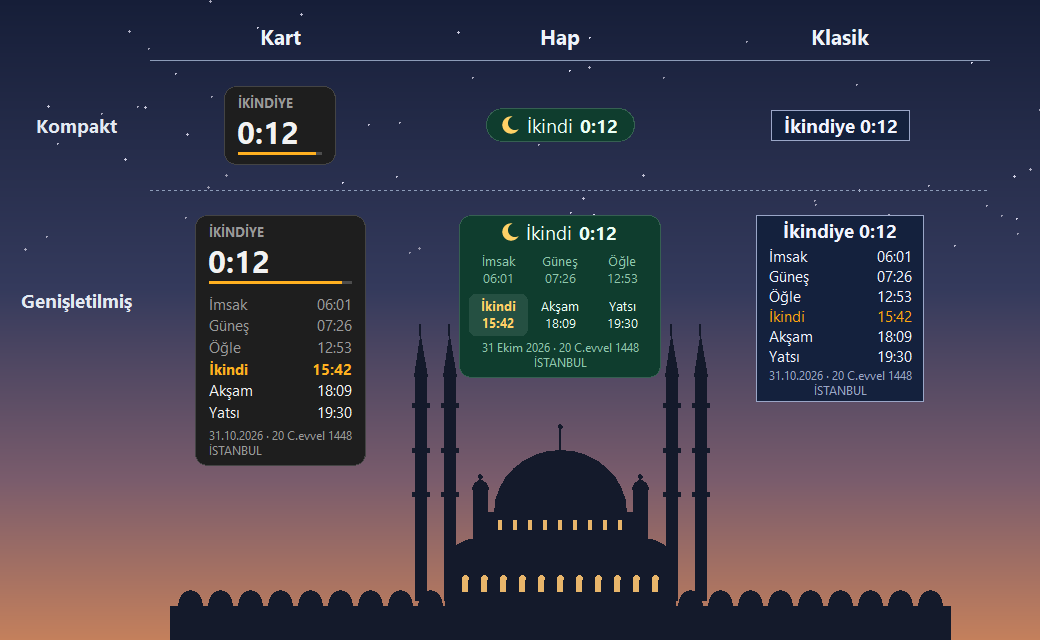
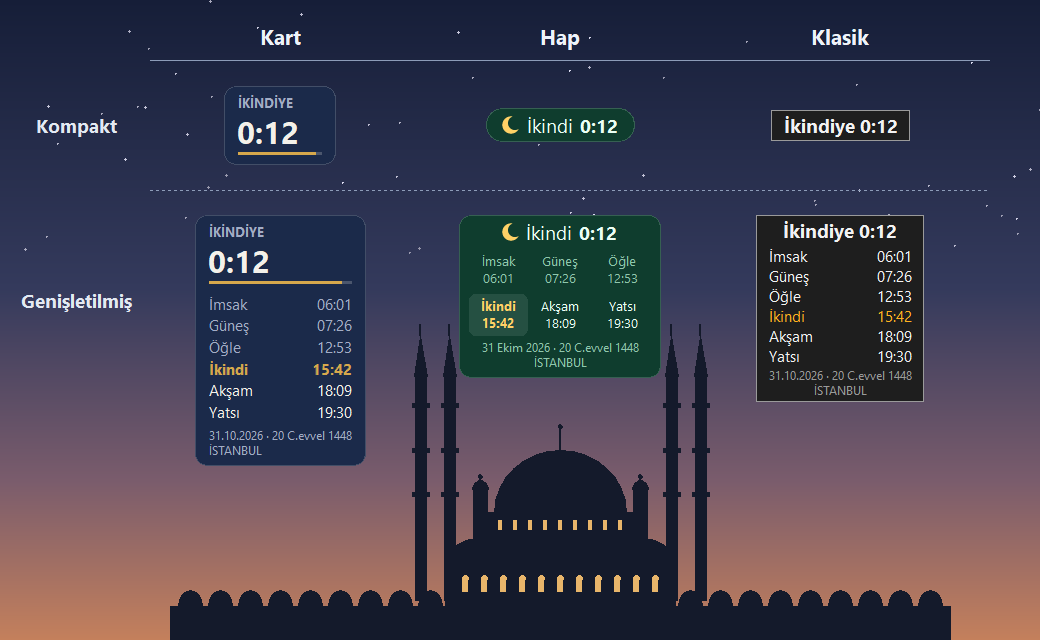
0.5.0: Selçuklu yıldızı logosu, lacivert-altın tasarım (varsayılan tema Lacivert)

diff --git a/ezan_vakti.py b/ezan_vakti.py
@@ -38,7 +38,7 @@ CACHE_FILE = os.path.join(DATA_DIR, "vakitler.json")
 SES_FILE = os.path.join(DATA_DIR, "calan_ses.wav")
 
 # Uygulamanın sürümü: yeni sürüm yayınlarken bunu ve surum_bilgisi.txt'yi birlikte güncelle
-SURUM = "0.4.1"
+SURUM = "0.5.0"
 BASE_URL = "https://namazvakitleri.diyanet.gov.tr"
 TURKIYE = ("TÜRKİYE", "2")  # varsayılan ülke (ad, Diyanet kimliği)
 HEADERS = {"User-Agent": f"Mozilla/5.0 (Windows NT 10.0; Win64; x64) EzanVakti/{SURUM}"}
@@ -75,8 +75,9 @@ TEMALAR = {
     "Koyu":     {"bg": "#1e1e1e", "fg": "#f2f2f2", "sub": "#9a9a9a", "warn": "#ffb020"},
     "Açık":     {"bg": "#f7f7f7", "fg": "#1e1e1e", "sub": "#6a6a6a", "warn": "#d05a00"},
     "Yeşil":    {"bg": "#0f3d2e", "fg": "#eafff4", "sub": "#8fc7ad", "warn": "#ffd166"},
-    "Lacivert": {"bg": "#14213d", "fg": "#f1f4ff", "sub": "#9aa6c7", "warn": "#fca311"},
+    "Lacivert": {"bg": "#1b2a4a", "fg": "#f3f1ea", "sub": "#a3adc6", "warn": "#d6a84c"},
 }
+VARSAYILAN_TEMA = "Lacivert"  # logodaki lacivert ve altın
 TEMA_ADLARI = {"Koyu": ("Koyu", "Dark"), "Açık": ("Açık", "Light"),
                "Yeşil": ("Yeşil", "Green"), "Lacivert": ("Lacivert", "Navy")}
 SAYDAMLIK = {"Opak": 1.0, "Yarı saydam": 0.75, "Çok saydam": 0.5, "Saydam (sadece yazı)": None}
@@ -197,7 +198,7 @@ VARSAYILAN_AYARLAR = {
     "alarm_on": True, "alarm_minutes": 10, "alarm_at_time": True,
     "alarm_vakitler": ["İmsak", "Öğle", "İkindi", "Akşam", "Yatsı"],
     "sound": "zil", "sound_file": "", "volume": 80,
-    "style": "kart", "theme": "Koyu", "opacity": "Yarı saydam", "size": 13,
+    "style": "kart", "theme": VARSAYILAN_TEMA, "opacity": "Yarı saydam", "size": 13,
     "x": None, "y": None, "snap_x": "right", "snap_y": "bottom",
     "expanded": False, "autostart": False,
     "calc": "diyanet",
@@ -234,7 +235,7 @@ def eski_ayarlari_cevir(cfg):
     if cfg["style"] not in STILLER:
         cfg["style"] = "kart"
     if cfg["theme"] not in TEMALAR:
-        cfg["theme"] = "Koyu"
+        cfg["theme"] = VARSAYILAN_TEMA
     if cfg["opacity"] not in SAYDAMLIK:
         cfg["opacity"] = "Yarı saydam"
     if cfg["language"] not in DILLER:
@@ -1020,8 +1021,21 @@ def hilal_icinde(x, y, R):
     return x * x + y * y <= R * R and (x - ox) ** 2 + (y - oy) ** 2 > r * r
 
 
-def hilal_resmi(R, renk, zemin):
-    """Kenarları yumuşatılmış hilal resmi (dışı saydam). Kenarlar zemin rengine karışır."""
+def logo_icinde(x, y, R):
+    """Logodaki altın kısım: sekiz köşeli Selçuklu yıldızının (iç içe iki kare) içinde, ortadaki
+    lacivert dairenin dışında; ya da o dairenin içindeki hilalde. Merkez (0, 0), R yıldızın köşesi."""
+    a = R / math.sqrt(2)  # karelerin yarı kenarı
+    if not ((abs(x) <= a and abs(y) <= a) or abs(x + y) <= R and abs(x - y) <= R):
+        return False
+    if x * x + y * y > (0.545 * R) ** 2:
+        return True
+    hx, hy = x / (0.364 * R), y / (0.364 * R)  # hilal, logodaki oranlarla
+    return hx * hx + hy * hy <= 1 and (hx - 0.39) ** 2 + (hy + 0.28) ** 2 > 0.69
+
+
+def hilal_resmi(R, renk, zemin, icinde=hilal_icinde):
+    """Kenarları yumuşatılmış hilal (ya da 'icinde' ile verilen şekil) resmi; dışı saydam.
+    Kenarlar zemin rengine karışır."""
     boy = int(math.ceil(2 * R)) + 2
     merkez = boy / 2
     (r1, g1, b1), (r2, g2, b2) = _rgb(renk), _rgb(zemin)
@@ -1031,7 +1045,7 @@ def hilal_resmi(R, renk, zemin):
     for py in range(boy):
         satir = []
         for px in range(boy):
-            dolu = sum(hilal_icinde(px + (i + 0.5) / ornek - merkez, py + (j + 0.5) / ornek - merkez, R)
+            dolu = sum(icinde(px + (i + 0.5) / ornek - merkez, py + (j + 0.5) / ornek - merkez, R)
                        for i in range(ornek) for j in range(ornek)) / ornek ** 2
             if dolu == 0:
                 bos.append((px, py))
@@ -2285,15 +2299,16 @@ class AyarlarPenceresi:
         pad = {"padx": 8, "pady": 5}
         ttk.Style(w).configure("TNotebook.Tab", padding=(16, 6))
 
-        # Başlık şeridi: hilal, uygulama adı ve seçili konum
-        yesil, altin = TEMALAR["Yeşil"]["bg"], TEMALAR["Yeşil"]["warn"]
-        ust = tk.Frame(w, bg=yesil)
+        # Başlık şeridi: logo, uygulama adı ve seçili konum
+        tema = TEMALAR[VARSAYILAN_TEMA]
+        ust = tk.Frame(w, bg=tema["bg"])
         ust.pack(fill="x")
-        self._baslik_hilal = hilal_resmi(13, altin, yesil)
-        tk.Label(ust, image=self._baslik_hilal, bg=yesil).pack(side="left", padx=(16, 8), pady=12)
-        tk.Label(ust, text=t("app"), bg=yesil, fg="#eafff4",
+        tk.Frame(ust, bg=tema["warn"], height=2).pack(side="bottom", fill="x")  # altın alt çizgi
+        self._baslik_logo = hilal_resmi(15, tema["warn"], tema["bg"], logo_icinde)
+        tk.Label(ust, image=self._baslik_logo, bg=tema["bg"]).pack(side="left", padx=(14, 8), pady=10)
+        tk.Label(ust, text=t("app"), bg=tema["bg"], fg=tema["fg"],
                  font=("Segoe UI", 14, "bold")).pack(side="left")
-        self.baslik_konum = tk.Label(ust, text=app.konum_adi(), bg=yesil, fg=TEMALAR["Yeşil"]["sub"],
+        self.baslik_konum = tk.Label(ust, text=app.konum_adi(), bg=tema["bg"], fg=tema["sub"],
                                      font=("Segoe UI", 10))
         self.baslik_konum.pack(side="right", padx=16)
 
